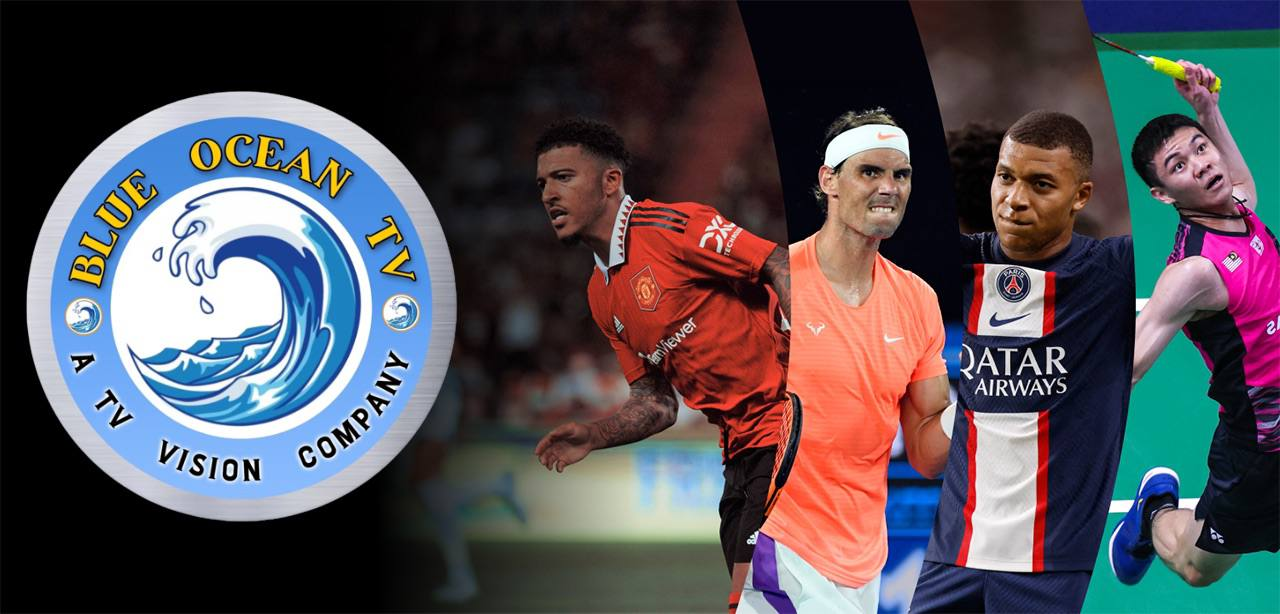
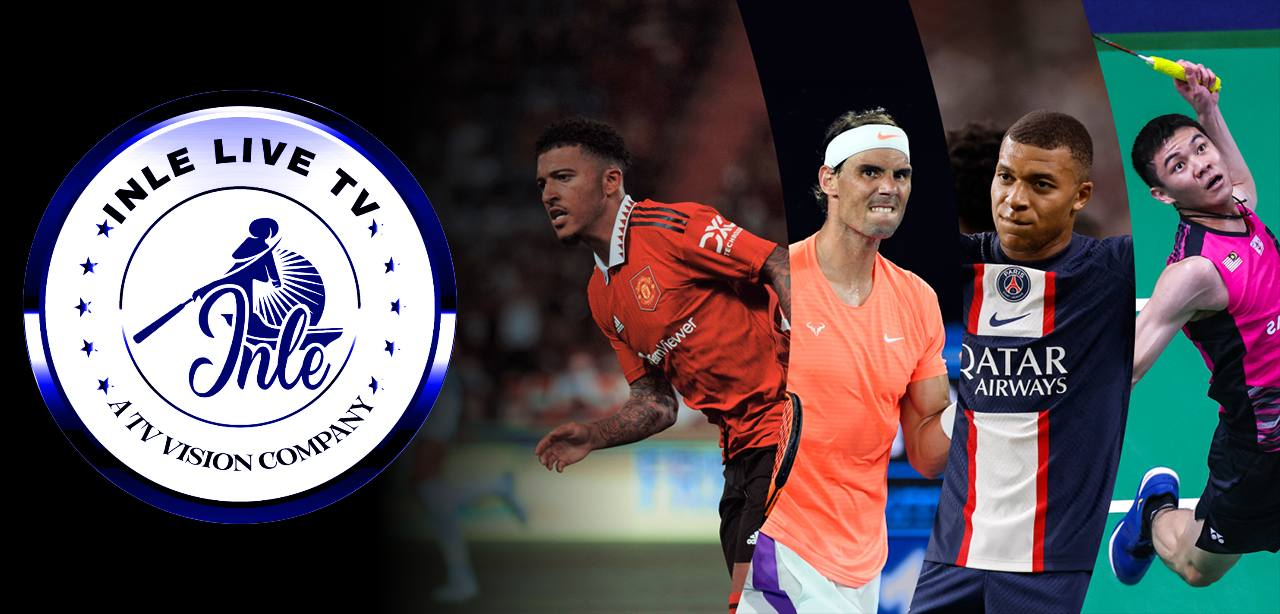
navbar

Changed region(s): [[0.0, 0.1238, 0.375, 0.8664]]

diff --git a/src/data/language_MM.js b/src/data/language_MM.js
@@ -115,7 +115,7 @@ export const language_MM = [
             {p8: 'Credit များကို အသုံးပြုခြင်းဖြင့် Reseller များ ရရှိနိုင်မည့် အကျိုးများ'},
             {p9: 'Credit များကို မိမိ ကြိုက်နှစ်သက်သလို တစ်ဆင့် စျေးတင် ရောင်းချနိုင်ပါတယ်။ တစ်လစာ ကို 10 USD , 15 USD စသဖြင့် မိမိ သတ်မှတ်ချက်အတိုင်း ရောင်းချနိုင်ပါတယ်။'},
             {p10: 'အထက်တွင် ရှင်းပြခဲ့သည့် အတိုင်း Reseller များသည် Credit တစ်ခုကို 5 USD ဖြင့် ဝယ်ယူပြီး 15 USD လောက် စျေးကွက်တွင် တစ်ဆင့်ပြန်လည် ရောင်းချခြင်းဖြင့် မိမိ အတွက် အမြတ်များစွာ ကျန်နိုင်ပါတယ်။'},
-            {p11: 'ဝယ်ယူပြီးလျှင် စတင်အသုံးပြုနိုင်ရန် ကျွန်တော် တို့နှင့် ဆက်သွယ်ပါ'},
+            {p11: 'ဝယ်ယူ ပြီးလျှင် စတင် အသုံးပြုနိုင်ရန် ကျွန်တော် တို့နှင့် ဆက်သွယ်ပါ'},
             {buyNow: 'ဝယ်ယူရန်'}
         ]
     },
@@ -135,10 +135,10 @@ export const language_MM = [
             {p2: 'Developer option ကိုနှိပ်၍ Adb debugging နှင့် app from unknown sources ကို ဖွင့်ထားပါ။ ပြီးလျှင် remote ပေါ်မှ အိမ်ခလုတ် ကို နှိပ်ပါ။'},
             {p3: '2. TV မှ Find ဆီကိုသွား၍ downloader ကို ရှာလိုက်ပါ။'},
             {p4: 'Install လုပ်ပြီး ဖွင့်လိုက်ပါ။'},
-            {p5: '3. ဂဏန်း  56331 ကိုရိုက်နှိပ်လိုက်ပါ။'},
-            {p6: 'ထို့နောက် သင့်ကို website ဆီခေါ်သွားပြီး apk install ခိုင်းပါလိမ့်မည်။  dacableplug live xciptv apk နှင့် dacableplug cinema နှစ်ခုကို သွင်းရန် အကြံပေးပါသည်။'},
+            {p5: '3. ဂဏန်း  548262 ကိုရိုက်နှိပ်လိုက်ပါ။'},
+            {p6: 'ထို့နောက် သင့်ကို website ဆီခေါ်သွားပြီး apk install ခိုင်းပါလိမ့်မည်။  Inle  xciptv apk နှင့် Inle Cinema နှစ်ခုကို သွင်းရန် အကြံပေးပါသည်။'},
             {p7: '4. ရုပ်ရှင်နှင့် ဇာတ်လမ်းတွဲ များအတွက်လည်း အခမဲ့ app များ ရှိပါသည်။'},
-            {p8: 'Ad guard သွင်း၍ local vpn ကို ဖွင့်လိုက်ပါ။ ထို့နောက် သင် ရုပ်သံများကို TV ပေါ်တွင် စတင်ကြည့်ရှုနိုင်ပါပြီ။ ဖုန်းများ အတွက် apk ကို playstore မှ down ပါ။ သို့မဟုတ် aftv.news/56331 link ကို browser တစ်ခုခု မှ ဝင်၍ down နိုင်ပါသည်။'},
+            {p8: 'Android Device များအတွက် playstore မှ downloader ကို ထည့်သွင်းရန် အကြံပြုပါသည်။ ထည့်သွင်း၍မရပါက aftv.news/548262 link ကို browser တစ်ခုခု မှ ဝင်၍ download နိူင်ပါသည်။'},
 
             {h2: 'Buffering ဖြစ်တာကို ဘယ်လို ပြင်ဆင်မလဲ'},
 
@@ -163,7 +163,7 @@ export const language_MM = [
         Pricing: [
             {h1: 'Subscription နှုန်းထားများ'},
             {p1: 'ဝယ်ယူရန်'},
-            {p2: 'ဝယ်ယူပြီးလျှင် စတင်အသုံးပြုနိုင်ရန် ကျွန်တော် တို့နှင့် ဆက်သွယ်ပါ'}
+            {p2: 'ဝယ်ယူ ပြီးလျှင် စတင် အသုံးပြုနိုင်ရန် ကျွန်တော် တို့နှင့် ဆက်သွယ်ပါ'}
         ]
     }    
 ]

diff --git a/src/components/header/Navbar.jsx b/src/components/header/Navbar.jsx
@@ -65,20 +65,18 @@ const Navbar = () => {
                 className='h-8 w-8 mb-2 cursor-pointer'/>
 
                     <div 
-                    className='flex items-center gap-2 justify-center cursor-pointer'>        
-                        <div className='cursor-pointer'
+                    className='flex items-center gap-4 justify-center cursor-pointer'>        
+                        <h1 className='cursor-pointer'
                         onClick={() => dispatch(setLanguageEN())}
                         >
-                        <TinyFlag className="w-fit"  country='GB'
-                        fallbackImageURL={flagURL('GB')} />
-                        </div>
+                        <img className='w-7' src="https://cdn.jsdelivr.net/npm/react-flagkit@1.0.2/img/SVG/GB.svg" alt="" />
+                        </h1>
 
-                        <div className='cursor-pointer'
+                        <h1 className='cursor-pointer'
                         onClick={() => dispatch(setLanguageMM())}
                         >
-                        <TinyFlag className="w-fit"  country='MM'
-                        fallbackImageURL={flagURL('MM')}/>
-                        </div>
+                        <img className='w-7' src="https://cdn.jsdelivr.net/npm/react-flagkit@1.0.2/img/SVG/MM.svg" alt="" />
+                        </h1>
                     </div>
 
                 </div>
@@ -109,7 +107,7 @@ const Navbar = () => {
                 <h1 className='text-center underline underline-offset-8 mb-6'>{contact_via.name}</h1>
                 <div className='flex items-center justify-center gap-6'>
 
-                    <a href="https://www.facebook.com/blueoceantv.mm/" target='_blank'><BsFacebook onClick={() => setShowMenu(false)}
+                    <a href="https://www.facebook.com/profile.php?id=100067427025936&mibextid=LQQJ4d" target='_blank'><BsFacebook onClick={() => setShowMenu(false)}
                     className='nav_icon'/></a>
 
                     <a href="https://instagram.com/Blue_Ocean_Tv?igshid=ue88wjka9m5y" target='_blank'><BsInstagram onClick={() => setShowMenu(false)}
@@ -148,8 +146,7 @@ const Navbar = () => {
             <div className='cursor-pointer'
             onClick={() => dispatch(setLanguageEN())}
             >
-                <TinyFlag className="w-fit"  country='GB'
-                fallbackImageURL={flagURL('GB')} />
+                <img className='w-6' src="https://cdn.jsdelivr.net/npm/react-flagkit@1.0.2/img/SVG/GB.svg" alt="" />
                 </div>
 
 
@@ -157,8 +154,7 @@ const Navbar = () => {
             <div className='cursor-pointer'
             onClick={() => dispatch(setLanguageMM())}
             >
-                <TinyFlag className="w-fit"  country='MM'
-                fallbackImageURL={flagURL('MM')}/>
+                <img className='w-6' src="https://cdn.jsdelivr.net/npm/react-flagkit@1.0.2/img/SVG/MM.svg" alt="" />
                 </div>
             </div>
         </div>

diff --git a/src/pages/Download.jsx b/src/pages/Download.jsx
@@ -3,7 +3,7 @@ import React, { useState } from 'react'
 import {MdOutlineKeyboardArrowRight, MdOutlineKeyboardArrowDown} from 'react-icons/md'
 
 import img_1 from '../assets/download/store.jpg'
-import img_2 from '../assets/download/tivimate.jpg'
+import img_2 from '../assets/download/stb.jpg'
 import img_3 from '../assets/download/xc.jpg'
 import img_4 from '../assets/download/vod.jpg'
 
@@ -28,13 +28,13 @@ const id_4_link2 = 'https://www.mediafire.com/file/wvrp1b96csf1o2j/BOPLUS.apk/fi
 
 
 const downloadLinks = [
-    {id: 1, name: 'BLUE OCEAN APP STORE', link1Name: 'DIRECT DOWNLOAD', link1: id_1_link1,  img: img_1},
+    {id: 1, name: 'INLE TV APP STORE', link1Name: 'DIRECT DOWNLOAD', link1: id_1_link1,  img: img_1},
 
-    {id: 2, name: 'BLUE OCEAN TIVIMATE', link1Name: 'DIRECT DOWNLOAD', link1: id_2_link1, link2Name: 'MEDIAFIRE', link2: id_2_link2, img: img_2},
+    {id: 2, name: 'INLE TV STB', link1Name: 'DIRECT DOWNLOAD', link1: id_2_link1, link2Name: 'MEDIAFIRE', link2: id_2_link2, img: img_2},
 
-    {id: 3, name: 'BLUE OCEAN XC', link1Name: 'DIRECT DOWNLOAD', link1: id_3_link1, link2Name: 'MEDIAFIRE', link2: id_3_link2, img: img_3},
+    {id: 3, name: 'INLE TV XC', link1Name: 'DIRECT DOWNLOAD', link1: id_3_link1, link2Name: 'MEDIAFIRE', link2: id_3_link2, img: img_3},
     
-    {id: 4, name: 'BLUE OCEAN VOD', link1Name: 'DIRECT DOWNLOAD', link1: id_4_link1, link2Name: 'MEDIAFIRE', link2: id_4_link2, img:img_4},
+    {id: 4, name: 'INLE TV VOD', link1Name: 'DIRECT DOWNLOAD', link1: id_4_link1, link2Name: 'MEDIAFIRE', link2: id_4_link2, img:img_4},
 ]
 
 const Download = () => {

diff --git a/src/pages/Reseller.jsx b/src/pages/Reseller.jsx
@@ -129,7 +129,7 @@ const Reseller = () => {
             <h1 className='text-lg md:text-2xl font-semibold text-center py-2'>{p11}</h1>
 
             <div className='flex gap-6 justify-center py-8 text-blue'>
-                <a href="https://www.facebook.com/blueoceantv.mm/" target='_blank'><BsFacebook className='w-8 h-8 cursor-pointer'/></a>
+                <a href="https://www.facebook.com/profile.php?id=100067427025936&mibextid=LQQJ4d" target='_blank'><BsFacebook className='w-8 h-8 cursor-pointer'/></a>
 
                 <a href="https://m.me/blueoceantv.mm" target='_blank'><BsMessenger className='w-8 h-8 cursor-pointer'/></a>
 

diff --git a/src/pages/Pricing.jsx b/src/pages/Pricing.jsx
@@ -174,7 +174,7 @@ const Pricing = () => {
             <h1 className='text-lg md:text-2xl font-semibold text-center py-2'>{p2}</h1>
 
             <div className='flex gap-6 justify-center py-8 text-blue'>
-                <a href="https://www.facebook.com/blueoceantv.mm/" target='_blank'><BsFacebook className='w-8 h-8 cursor-pointer'/></a>
+                <a href="https://www.facebook.com/profile.php?id=100067427025936&mibextid=LQQJ4d" target='_blank'><BsFacebook className='w-8 h-8 cursor-pointer'/></a>
 
                 <a href="https://m.me/blueoceantv.mm" target='_blank'><BsMessenger className='w-8 h-8 cursor-pointer'/></a>
 

diff --git a/src/components/home/Contact.jsx b/src/components/home/Contact.jsx
@@ -13,7 +13,7 @@ const Contact = () => {
         <h1 className='text-2xl text-center text-blue '>{contact}</h1>
         <div className='flex flex-wrap gap-5 sm:gap-10 justify-center p-6 md:p-6 '>
 
-          <a href="https://www.facebook.com/blueoceantv.mm/" target='_blank'><BsFacebook className='contact_logo'/></a>
+          <a href="https://www.facebook.com/profile.php?id=100067427025936&mibextid=LQQJ4d" target='_blank'><BsFacebook className='contact_logo'/></a>
 
           <a href="https://m.me/blueoceantv.mm" target='_blank'><BsMessenger className='contact_logo'/></a>
 

diff --git a/src/pages/AboutUs.jsx b/src/pages/AboutUs.jsx
@@ -37,7 +37,7 @@ const AboutUs = () => {
           <div className='flex items-center justify-center lg:w-[50%]'><img className='rounded-2xl  h-full ' src={Img1} alt="" /></div>
 
           <div className='flex flex-col gap-y-4 lg:w-[50%]'>     
-            <h1 className='text-blue text-3xl font-semibold text-center lg:text-4xl'>{p1}</h1> 
+            <h1 className='text-blue text-3xl font-semibold text-center lg:text-4xl '>{p1}</h1> 
 
             <h1 className='font-semibold text-blue py-3 tracking-wider'>{p2}</h1>
 

diff --git a/src/index.css b/src/index.css
@@ -34,6 +34,7 @@ font-family: 'Roboto Slab', serif;
 
 body {
     font-family: 'Montserrat', sans-serif; 
+    line-height: 2.5rem;
 }
 
 .bold_font {
@@ -93,7 +94,7 @@ body {
 
 @layer components {
     .btn {
-        @apply w-fit px-4 py-2 mx-auto rounded-md  bg-[#565462] text-white font-semibold 
+        @apply w-fit px-4 py-2 mx-auto rounded-md  bg-[#0c0fd0] text-white font-semibold 
     }
 
     .nav_icon {
